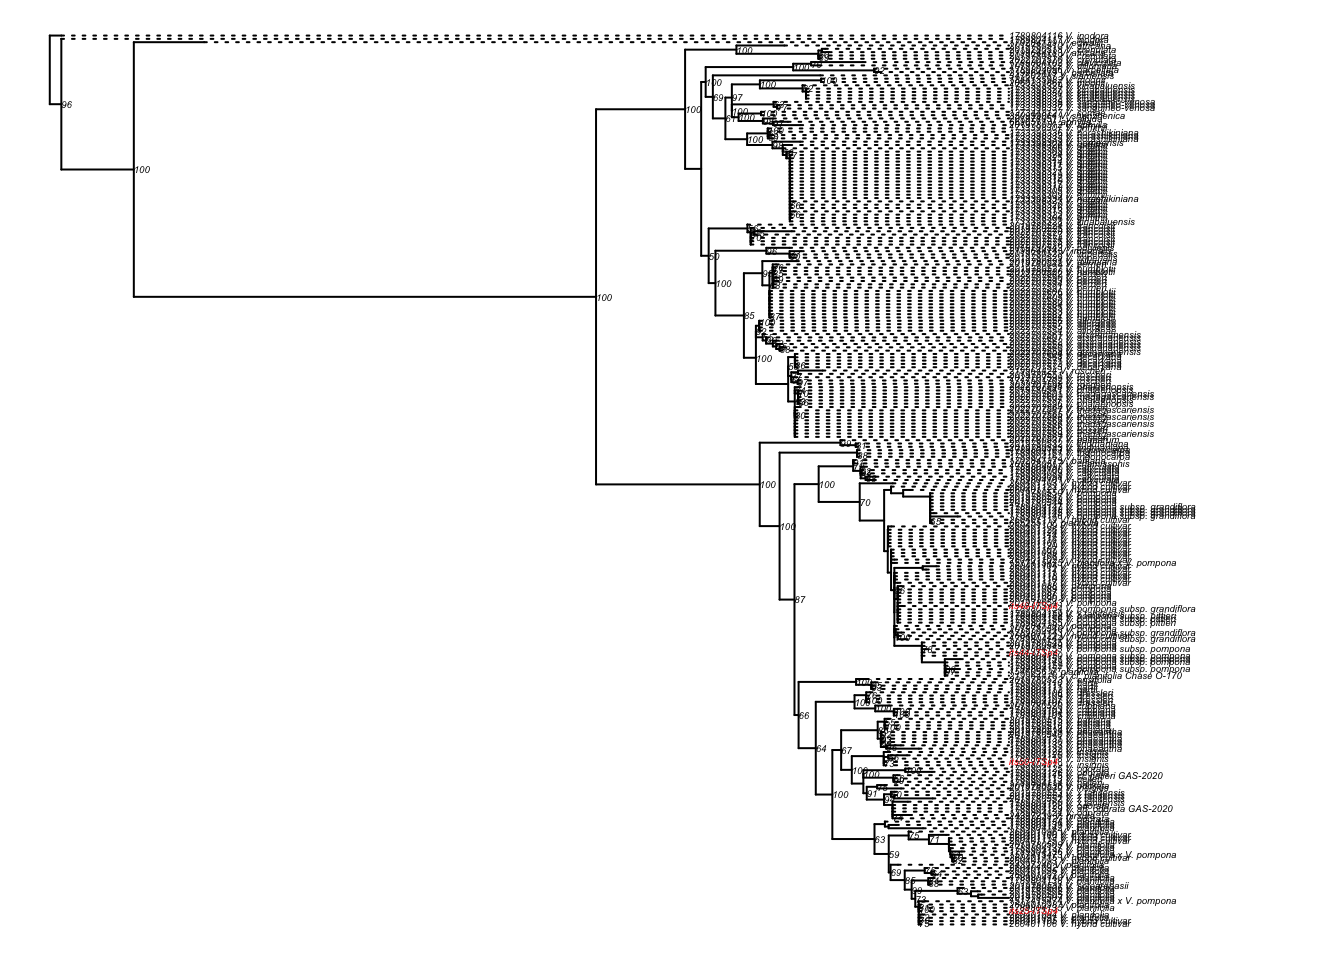
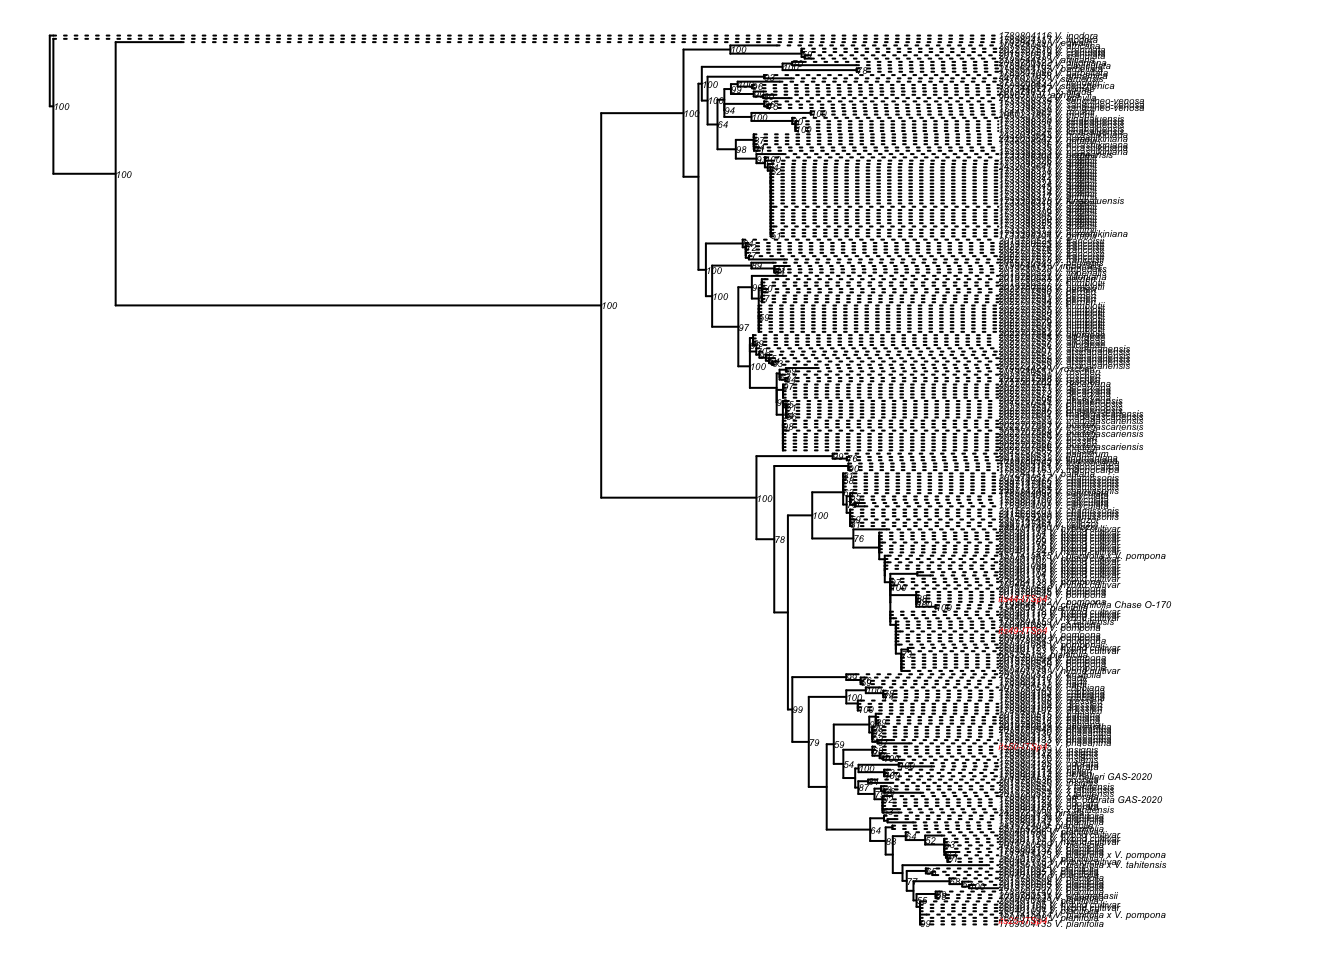
Updated Mini-Report 3 - Part 3 (Vanilla tree figure)

Changed region(s): [[0.0312, 0.0312, 0.9062, 0.9688], [0.0938, 0.2812, 0.125, 0.3125]]

diff --git a/Mini_reports.html b/Mini_reports.html
@@ -2371,7 +2371,7 @@ tr$edge.length</code></pre>
 </div>
 <div id="vanilla-phylogenetic-tree" class="section level4" number="4.11.7.5">
 <h4><span class="header-section-number">4.11.7.5</span> Vanilla Phylogenetic Tree</h4>
-<p>In this section, we will be analyzing the output of the RAxML analysis focusing on <code>result.raxml.support</code>, which contains the phylogenetic tree with node supports (here obtained through the bootstrap method). The file is stored in <code>04_Data_analyses/Phylogenetic_analysis/RAxML_analysis</code>.</p>
+<p>In this section, we will be analyzing the output of the RAxML analysis focusing on <code>Vanilla_ML.raxml.support</code>, which contains the phylogenetic tree with node supports (here obtained through the bootstrap method). The file is stored in <code>04_Data_analyses/Phylogenetic_analysis/RAxML_analysis</code>.</p>
 <p>Our analyses are divided into seven steps:</p>
 <ol style="list-style-type: decimal">
 <li>Load ITS tree using the <em>ape::read.tree()</em> function.</li>
@@ -2388,23 +2388,25 @@ tr$edge.length</code></pre>
 <pre class="r"><code>###~~~
 #1. Load Vanilla RAxML ITS tree
 ###~~~
-#Please adjust path based on your computer (= delete &quot;Data/&quot;)
-ITS &lt;- ape::read.tree(file=&quot;Data/04_Data_analyses/Phylogenetic_analyses/RAxML_analysis/RAxML_bipartitions.Vanilla_ML.tre&quot;)
+#Please adjust path based on your computer
+ITS &lt;- ape::read.tree(file=&quot;Data/04_Data_analyses/Phylogenetic_analyses/RAxML_analysis/Vanilla_ML.raxml.support&quot;)
+
+#ITS &lt;- ape::read.tree(file=&quot;Data/04_Data_analyses/Phylogenetic_analyses/RAxML_analysis/RAxML_bipartitions.Vanilla_ML.tre&quot;) # This is the file from last year
 
 ###~~~
 #2. Discard bootstrap values &lt; 50%
 ###~~~
 #Find nodes with low statistical supports
 ITS$node.label[which(as.numeric(ITS$node.label) &lt; 50)]</code></pre>
-<pre><code>##   [1] &quot;32&quot; &quot;5&quot;  &quot;0&quot;  &quot;18&quot; &quot;9&quot;  &quot;1&quot;  &quot;6&quot;  &quot;0&quot;  &quot;0&quot;  &quot;12&quot; &quot;29&quot; &quot;2&quot;  &quot;26&quot; &quot;33&quot; &quot;26&quot;
-##  [16] &quot;32&quot; &quot;14&quot; &quot;14&quot; &quot;19&quot; &quot;11&quot; &quot;0&quot;  &quot;3&quot;  &quot;1&quot;  &quot;1&quot;  &quot;7&quot;  &quot;4&quot;  &quot;15&quot; &quot;16&quot; &quot;15&quot; &quot;5&quot; 
-##  [31] &quot;19&quot; &quot;10&quot; &quot;13&quot; &quot;7&quot;  &quot;3&quot;  &quot;34&quot; &quot;16&quot; &quot;3&quot;  &quot;2&quot;  &quot;2&quot;  &quot;9&quot;  &quot;31&quot; &quot;19&quot; &quot;28&quot; &quot;6&quot; 
-##  [46] &quot;3&quot;  &quot;9&quot;  &quot;24&quot; &quot;4&quot;  &quot;3&quot;  &quot;7&quot;  &quot;30&quot; &quot;24&quot; &quot;34&quot; &quot;30&quot; &quot;16&quot; &quot;17&quot; &quot;28&quot; &quot;23&quot; &quot;39&quot;
-##  [61] &quot;44&quot; &quot;38&quot; &quot;19&quot; &quot;45&quot; &quot;28&quot; &quot;28&quot; &quot;7&quot;  &quot;5&quot;  &quot;22&quot; &quot;45&quot; &quot;31&quot; &quot;35&quot; &quot;34&quot; &quot;38&quot; &quot;6&quot; 
-##  [76] &quot;6&quot;  &quot;27&quot; &quot;1&quot;  &quot;0&quot;  &quot;6&quot;  &quot;1&quot;  &quot;5&quot;  &quot;0&quot;  &quot;15&quot; &quot;3&quot;  &quot;42&quot; &quot;16&quot; &quot;7&quot;  &quot;11&quot; &quot;10&quot;
-##  [91] &quot;21&quot; &quot;35&quot; &quot;1&quot;  &quot;0&quot;  &quot;0&quot;  &quot;0&quot;  &quot;1&quot;  &quot;5&quot;  &quot;5&quot;  &quot;26&quot; &quot;23&quot; &quot;25&quot; &quot;38&quot; &quot;9&quot;  &quot;16&quot;
-## [106] &quot;22&quot; &quot;21&quot; &quot;2&quot;  &quot;1&quot;  &quot;0&quot;  &quot;0&quot;  &quot;0&quot;  &quot;0&quot;  &quot;0&quot;  &quot;0&quot;  &quot;0&quot;  &quot;0&quot;  &quot;0&quot;  &quot;0&quot;  &quot;0&quot; 
-## [121] &quot;1&quot;  &quot;20&quot; &quot;28&quot; &quot;37&quot;</code></pre>
+<pre><code>##   [1] &quot;47&quot; &quot;38&quot; &quot;34&quot; &quot;23&quot; &quot;19&quot; &quot;45&quot; &quot;49&quot; &quot;19&quot; &quot;34&quot; &quot;18&quot; &quot;14&quot; &quot;3&quot;  &quot;26&quot; &quot;26&quot; &quot;14&quot;
+##  [16] &quot;20&quot; &quot;45&quot; &quot;21&quot; &quot;43&quot; &quot;22&quot; &quot;13&quot; &quot;10&quot; &quot;2&quot;  &quot;16&quot; &quot;40&quot; &quot;44&quot; &quot;48&quot; &quot;26&quot; &quot;23&quot; &quot;13&quot;
+##  [31] &quot;26&quot; &quot;21&quot; &quot;6&quot;  &quot;14&quot; &quot;17&quot; &quot;38&quot; &quot;27&quot; &quot;6&quot;  &quot;1&quot;  &quot;5&quot;  &quot;6&quot;  &quot;9&quot;  &quot;6&quot;  &quot;1&quot;  &quot;1&quot; 
+##  [46] &quot;0&quot;  &quot;0&quot;  &quot;5&quot;  &quot;6&quot;  &quot;0&quot;  &quot;1&quot;  &quot;2&quot;  &quot;4&quot;  &quot;45&quot; &quot;2&quot;  &quot;2&quot;  &quot;1&quot;  &quot;0&quot;  &quot;0&quot;  &quot;1&quot; 
+##  [61] &quot;8&quot;  &quot;44&quot; &quot;47&quot; &quot;13&quot; &quot;3&quot;  &quot;4&quot;  &quot;7&quot;  &quot;10&quot; &quot;20&quot; &quot;22&quot; &quot;37&quot; &quot;37&quot; &quot;34&quot; &quot;44&quot; &quot;35&quot;
+##  [76] &quot;18&quot; &quot;13&quot; &quot;37&quot; &quot;45&quot; &quot;44&quot; &quot;13&quot; &quot;15&quot; &quot;8&quot;  &quot;0&quot;  &quot;0&quot;  &quot;0&quot;  &quot;0&quot;  &quot;0&quot;  &quot;2&quot;  &quot;0&quot; 
+##  [91] &quot;13&quot; &quot;8&quot;  &quot;9&quot;  &quot;29&quot; &quot;17&quot; &quot;5&quot;  &quot;3&quot;  &quot;1&quot;  &quot;1&quot;  &quot;1&quot;  &quot;5&quot;  &quot;2&quot;  &quot;21&quot; &quot;40&quot; &quot;21&quot;
+## [106] &quot;6&quot;  &quot;10&quot; &quot;34&quot; &quot;39&quot; &quot;20&quot; &quot;17&quot; &quot;45&quot; &quot;5&quot;  &quot;0&quot;  &quot;0&quot;  &quot;0&quot;  &quot;0&quot;  &quot;0&quot;  &quot;2&quot;  &quot;0&quot; 
+## [121] &quot;0&quot;  &quot;0&quot;  &quot;0&quot;  &quot;0&quot;  &quot;0&quot;  &quot;0&quot;  &quot;0&quot;  &quot;0&quot;  &quot;0&quot;  &quot;0&quot;  &quot;2&quot;  &quot;20&quot;</code></pre>
 <pre class="r"><code>#Replace/overwrite values by &quot;&quot;
 ITS$node.label[which(as.numeric(ITS$node.label) &lt; 50)] &lt;- &quot;&quot;
 
